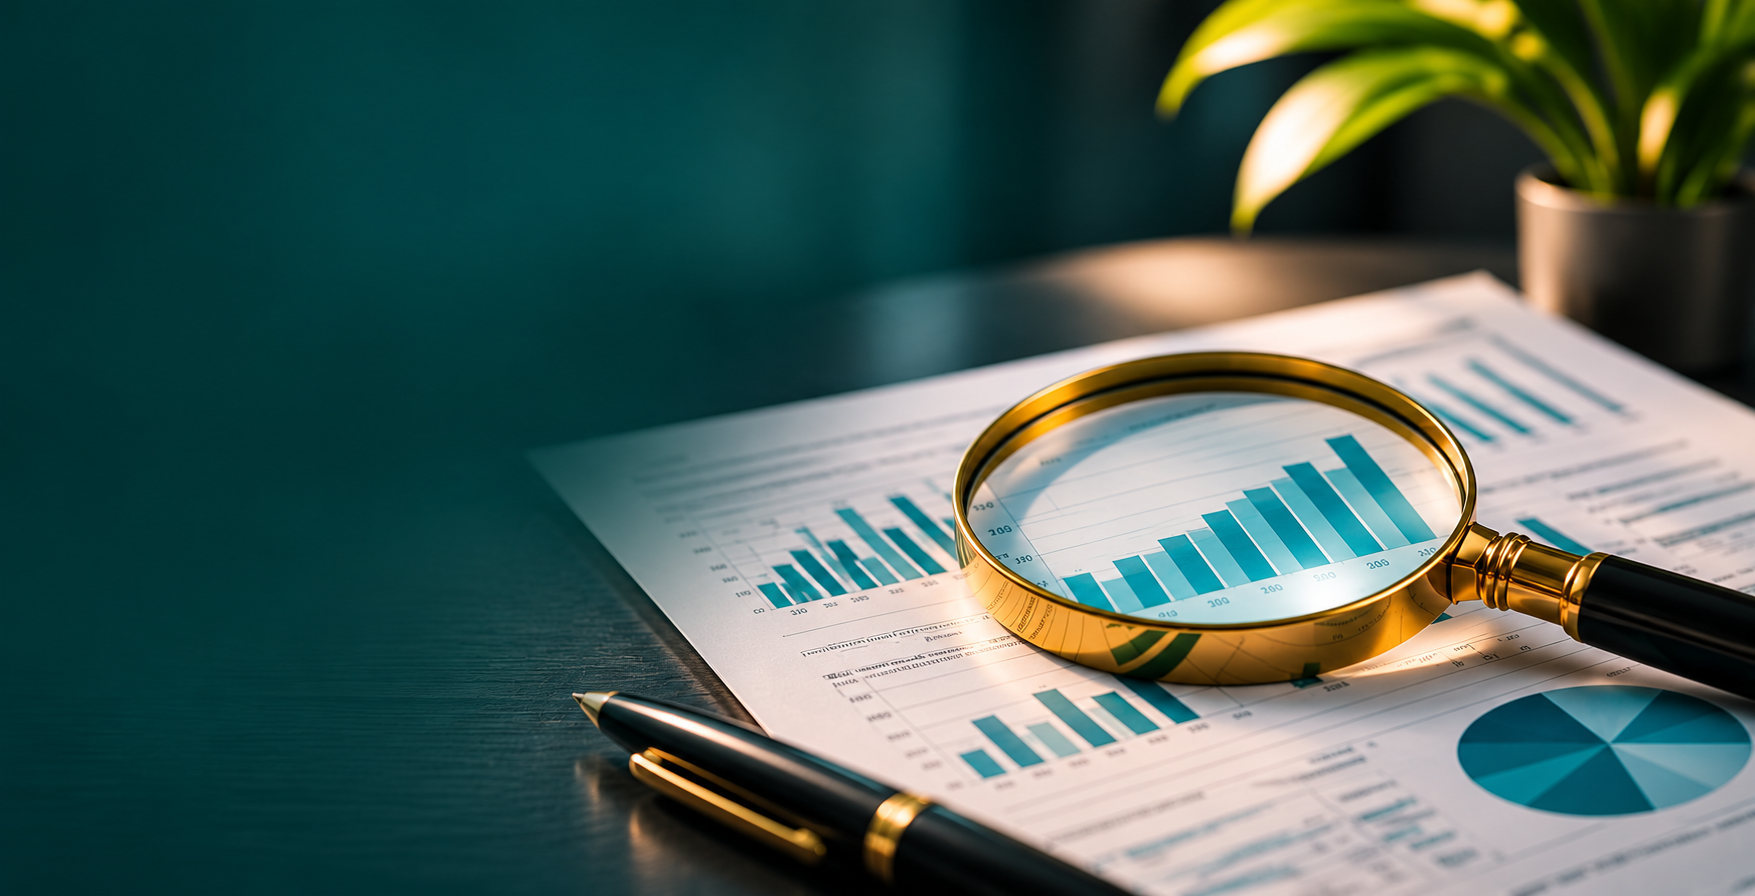
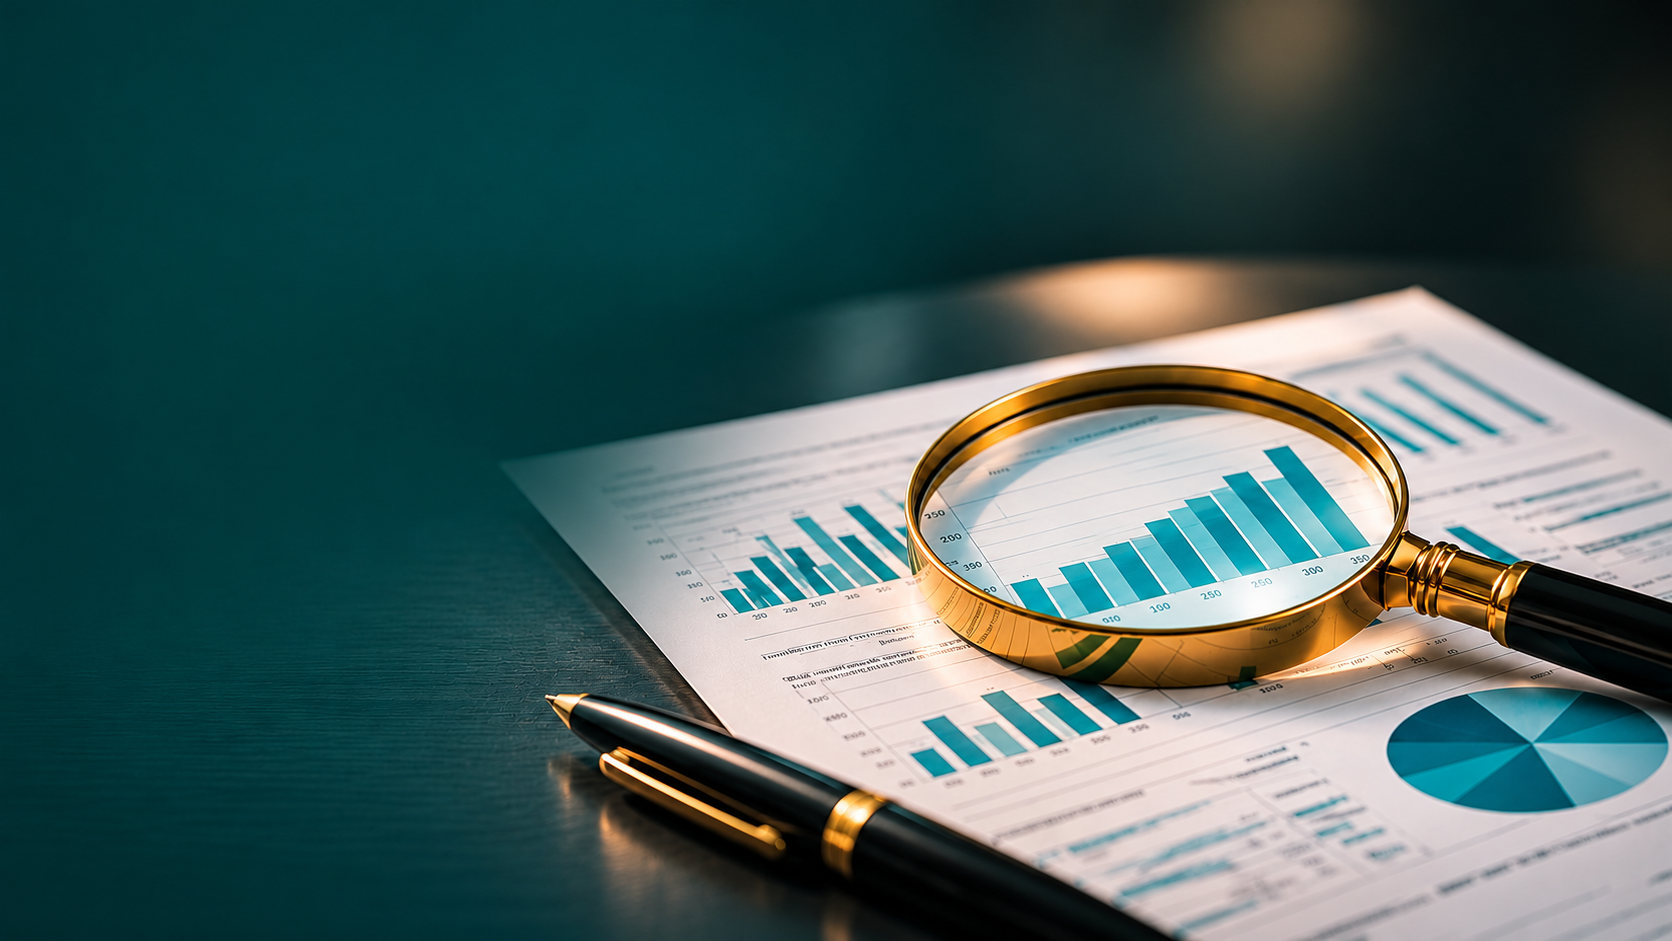
Hero photo without plant; header aligned to hero text, wider nav spacing
Claude-Session: https://claude.ai/code/session_018Udp281TiWLEi9Mh3b9CHo

diff --git a/src/styles/index.css b/src/styles/index.css
@@ -59,13 +59,15 @@ p + p { margin-top: 1rem; }
 .brand { display: flex; align-items: center; gap: 14px; text-decoration: none; }
 .brand img { width: 64px; height: 64px; }
 .brand span { font-family: var(--sans); font-weight: 700; font-size: 1.85rem; color: var(--charcoal); letter-spacing: .06em; line-height: 1; }
-.nav-links { display: flex; gap: 32px; list-style: none; align-items: center; }
+.nav-links { display: flex; gap: 40px; list-style: none; align-items: center; }
 .nav-links a { color: var(--charcoal); text-decoration: none; font-weight: 600; font-size: 1.05rem; padding: 6px 0; border-bottom: 3px solid transparent; }
 .nav-links a:hover, .nav-links a.active { color: var(--teal); }
 .nav-links a.active { color: var(--charcoal); font-weight: 700; border-bottom-color: #D9A94A; }
 .nav-links a.btn { color: var(--white); padding: 11px 20px; font-size: .98rem; text-decoration: none; border-bottom: 2px solid var(--teal); }
 .menu-btn { display: none; background: var(--white); border: 2px solid var(--charcoal); border-radius: 6px; padding: 8px 12px; font: 700 1rem var(--sans); color: var(--charcoal); cursor: pointer; }
 .mobile-menu { display: none; }
+/* Header uses the same width as the hero text so the logo lines up with it */
+.site-header .nav { max-width: 1290px; }
 
 /* Hero */
 .hero { background: var(--ivory); padding: 80px 0 88px; border-bottom: 1px solid var(--line); }
